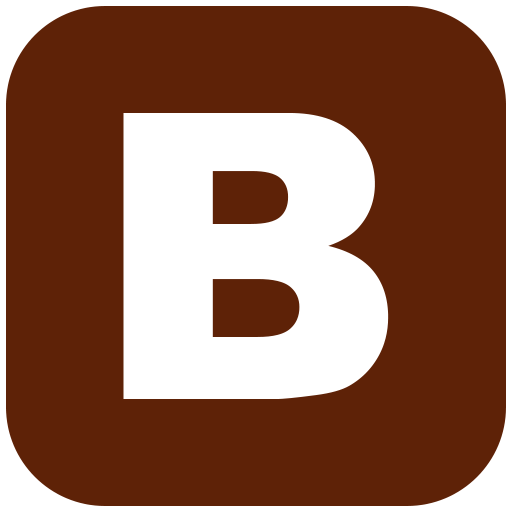
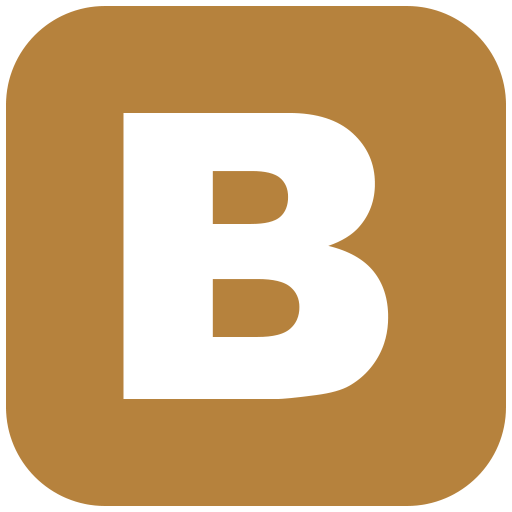
Maznah: half-size ochre A/B/C markers, brown halo, 0.2 s caption cards
The A/B/C buttons were recoloured to ochre (#B6823D, measured off the new artwork) and
halved to 48 canvas px at the same centres. The amber halo no longer stood apart from an
ochre button, so it now runs from the caption cards' deep-brown stroke (#5E2207) out to
the buttons' own ochre; dark is also what reliably shows on the transparent panel. The
halo is proportional to the button, so the pulse scaled down with it.

Caption cards now scale in over 0.2 s each instead of 0.5 s, still in sequence and still
replayed on every open, but a single iteration: measured in the browser, the first card
0.08 -> 0.83 over 48-188 ms, the second 0.25 -> 1 over 282-421 ms, both "finished" with
iterations 1 and holding at full size three seconds later.

The recoloured PNGs were edited in content/; they are copied back to
outer assets/images/button a/b/c.png so the next pipeline run keeps them.

diff --git a/web/app.css b/web/app.css
@@ -825,10 +825,13 @@ body.kiosk { cursor: none; }
 }
 
 /* Marker with its own artwork (`button` in content.json): the face is the supplied PNG,
-   and behind it a rounded square of colour swells outward and fades, shifting from
-   amber to gold as it goes. Amber sits clear of the buttons' dark brown and, unlike
-   white, actually lights on the transparent panel. Same 1s rhythm as the glow ring. */
-.hotspot--art { --hot-halo-a: #F59E23; --hot-halo-b: #FFD15C; }
+   and behind it a rounded square of colour swells outward and fades. The halo starts as
+   the deep brown of the caption cards' stroke (#5E2207) and fades out to the buttons'
+   own ochre fill (#B6823D, measured off the 21 Oct recolour). Dark against light is what
+   reads around an ochre button — the earlier amber was too close to it — and dark is
+   what definitely shows on the transparent panel. Same 1s rhythm as the glow ring. The
+   halo is sized in proportion to the button, so it follows `hotspotSize`. */
+.hotspot--art { --hot-halo-a: #5E2207; --hot-halo-b: #B6823D; }
 
 .hotspot__face {
   position: absolute;

diff --git a/web/screens/hotspots.js b/web/screens/hotspots.js
@@ -40,7 +40,7 @@ const DEFAULT_SIZE = 96;
    730 x 1092 on the design canvas. */
 const VIEW_BOX = [730, 1092];
 
-const INFO_MS = 500;   // each card's scale-in, linear, one after another
+const INFO_MS = 200;   // each card's scale-in, linear, one after another
 
 export function mountHotspots({ product, url, assetInfo, els }) {
   const spots = (product.hotspots ?? []).filter((h) => h.image && assetInfo(h.image).exists);

diff --git a/README.md b/README.md
@@ -439,7 +439,7 @@ side and bottom — and a tap anywhere closes the view again.
 
 ```jsonc
 "hotspotArt": "…/hotspot.png",      // fallback marker, for a spot with no `button`
-"hotspotSize": 96,
+"hotspotSize": 48,
 "zoomSize": [1334, 2000],           // the zoom images' native size; `info` x/y are in it
 "hotspots": [
   { "id": "top", "label": "Bahagian atas", "x": 536, "y": 799, "image": "…/zoom-top.webp",
@@ -461,9 +461,13 @@ Three things are deliberate:
   `pointer-events` do the hiding instead, so the fade always has a picture to fade to.
 - **A marker is either finished artwork or a mask.** Since 21 Oct 2026 Maznah's markers are
   the museum's lettered squares, A, B and C running top to bottom (`button` on each spot).
-  They are drawn as images, with a rounded amber halo swelling out from behind and fading
-  to gold, while the face itself breathes 1 → 1.1. Amber clears the buttons' dark brown and,
-  unlike white, actually lights on the transparent panel. A spot with no `button` falls back
+  They are drawn as images at `hotspotSize` 48 (halved from 96 on request), with a rounded
+  halo swelling out from behind while the face itself breathes 1 → 1.1. The halo runs from
+  the caption cards' deep-brown stroke (#5E2207) out to the buttons' own ochre (#B6823D,
+  measured off the recoloured artwork). It was amber against the first, dark-brown buttons;
+  once the buttons went ochre, amber no longer stood apart, and dark is what reliably shows
+  on the transparent panel. The halo is sized in proportion to the button, so changing
+  `hotspotSize` scales the pulse with it. A spot with no `button` falls back
   to `hotspotArt`, the older white glow ring used as a `mask-image` over a coloured box, which
   is what lets its colour animate. An `<img>` could only have been faded.
 - **The overlay paints nothing.** It is transparent and exists only to catch the tap that
@@ -501,10 +505,12 @@ document's on-screen width gave the zoom, and each card was found by its straigh
 bottom strokes. A colour mask alone does not work, because the weave contains the same brown.
 Every measured card height matched its PNG to within 2 px, which is the cross-check.
 
-On every open the cards scale in **0 → 1, linear, 0.5 s each, one after another**, from their
-own centres. This is the Web Animations API rather than a CSS class, because it has to
-restart on every open: the previous run is cancelled first, so going back and forth always
-replays it from scale 0. The cards sit above the picture and ignore taps, so tapping a card
+On every open the cards scale in **0 → 1, linear, 0.2 s each, one after another**, from their
+own centres (`INFO_MS` in `hotspots.js`), and play **once**: a single iteration, then they
+hold at full size. Measured in the browser: the first card 0.08 → 0.83 over 48-188 ms, the
+second 0.25 → 1 over 282-421 ms, both still at 1 three seconds later. This is the Web
+Animations API rather than a CSS class, because it has to restart on every open: the
+previous run is cancelled first, so going back and forth always replays it from scale 0. The cards sit above the picture and ignore taps, so tapping a card
 still closes the view.
 
 The artwork is staged from `outer assets/images/` (`button a/b/c.png`,

diff --git a/HANDOVER.md b/HANDOVER.md
@@ -262,7 +262,7 @@ team can translate Iban, so that is the blocker for everything else on this list
 Talks, subtitles, stage cycle and turntable all work. Two things are left:
 
 - **Terokai Produk redesign, in progress.** Done 21 Oct 2026: the glow-ring markers became
-  the lettered **A/B/C buttons** (top, side, bottom) with a pulsing amber halo, and each
+  the lettered **A/B/C buttons** (top, side, bottom; ochre, 48 px) with a pulsing brown halo, and each
   zoom view now carries its **caption cards**, which scale in one by one every time it opens.
   README → *Product hotspots* has the details and the measured positions. Further pieces of
   the new design to follow, one at a time.
